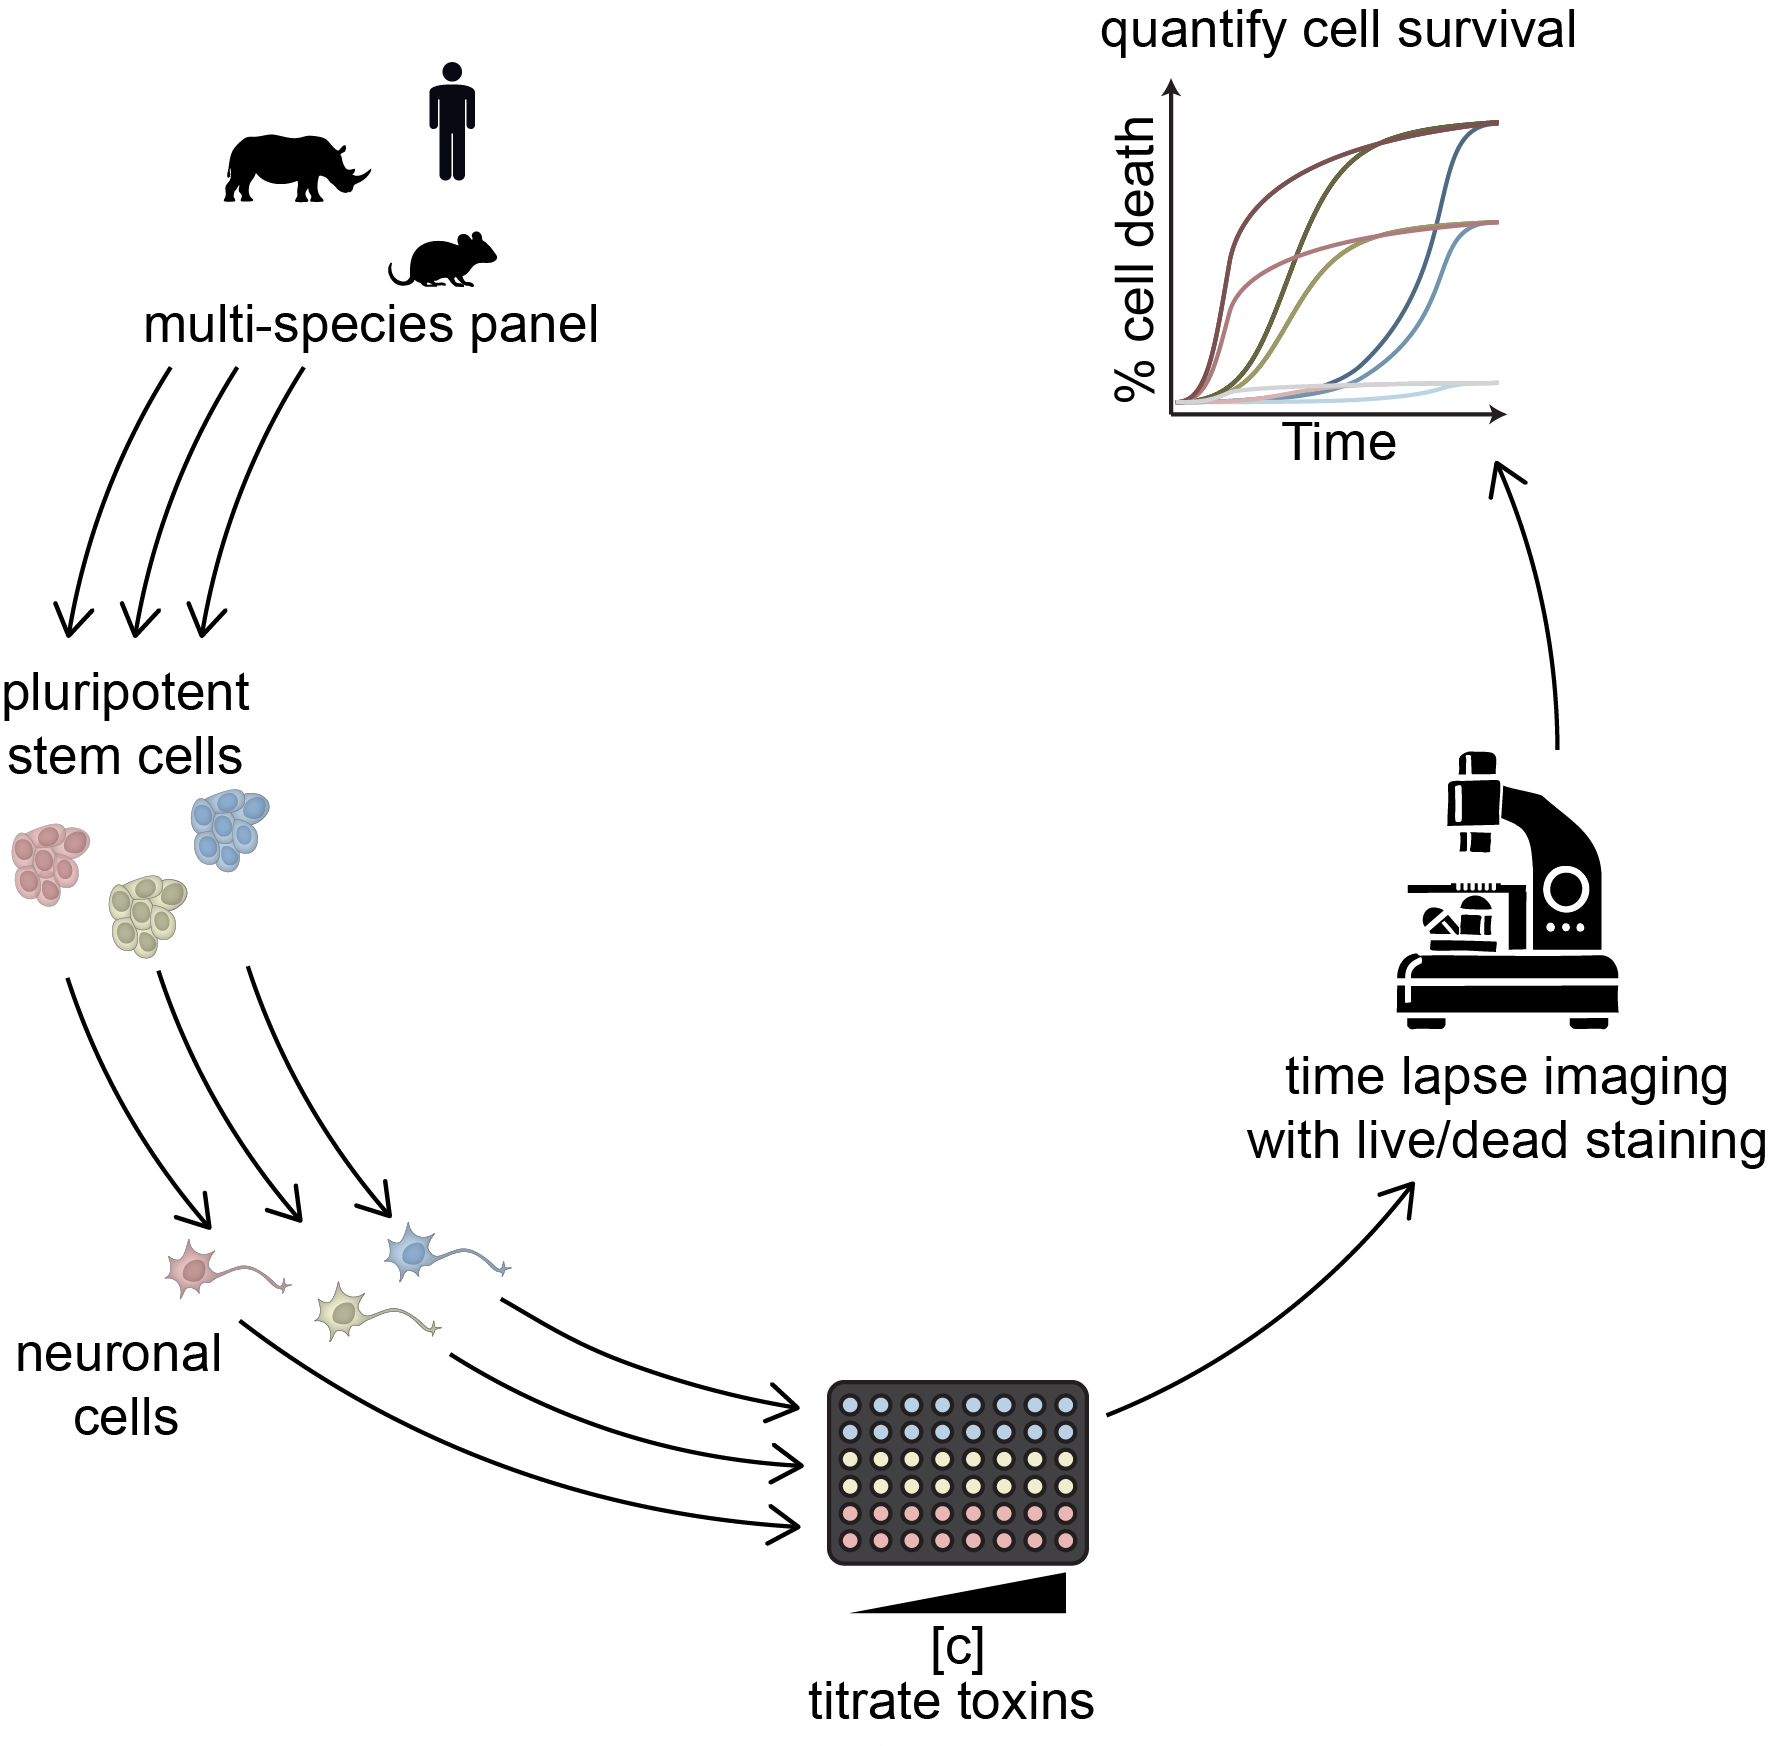
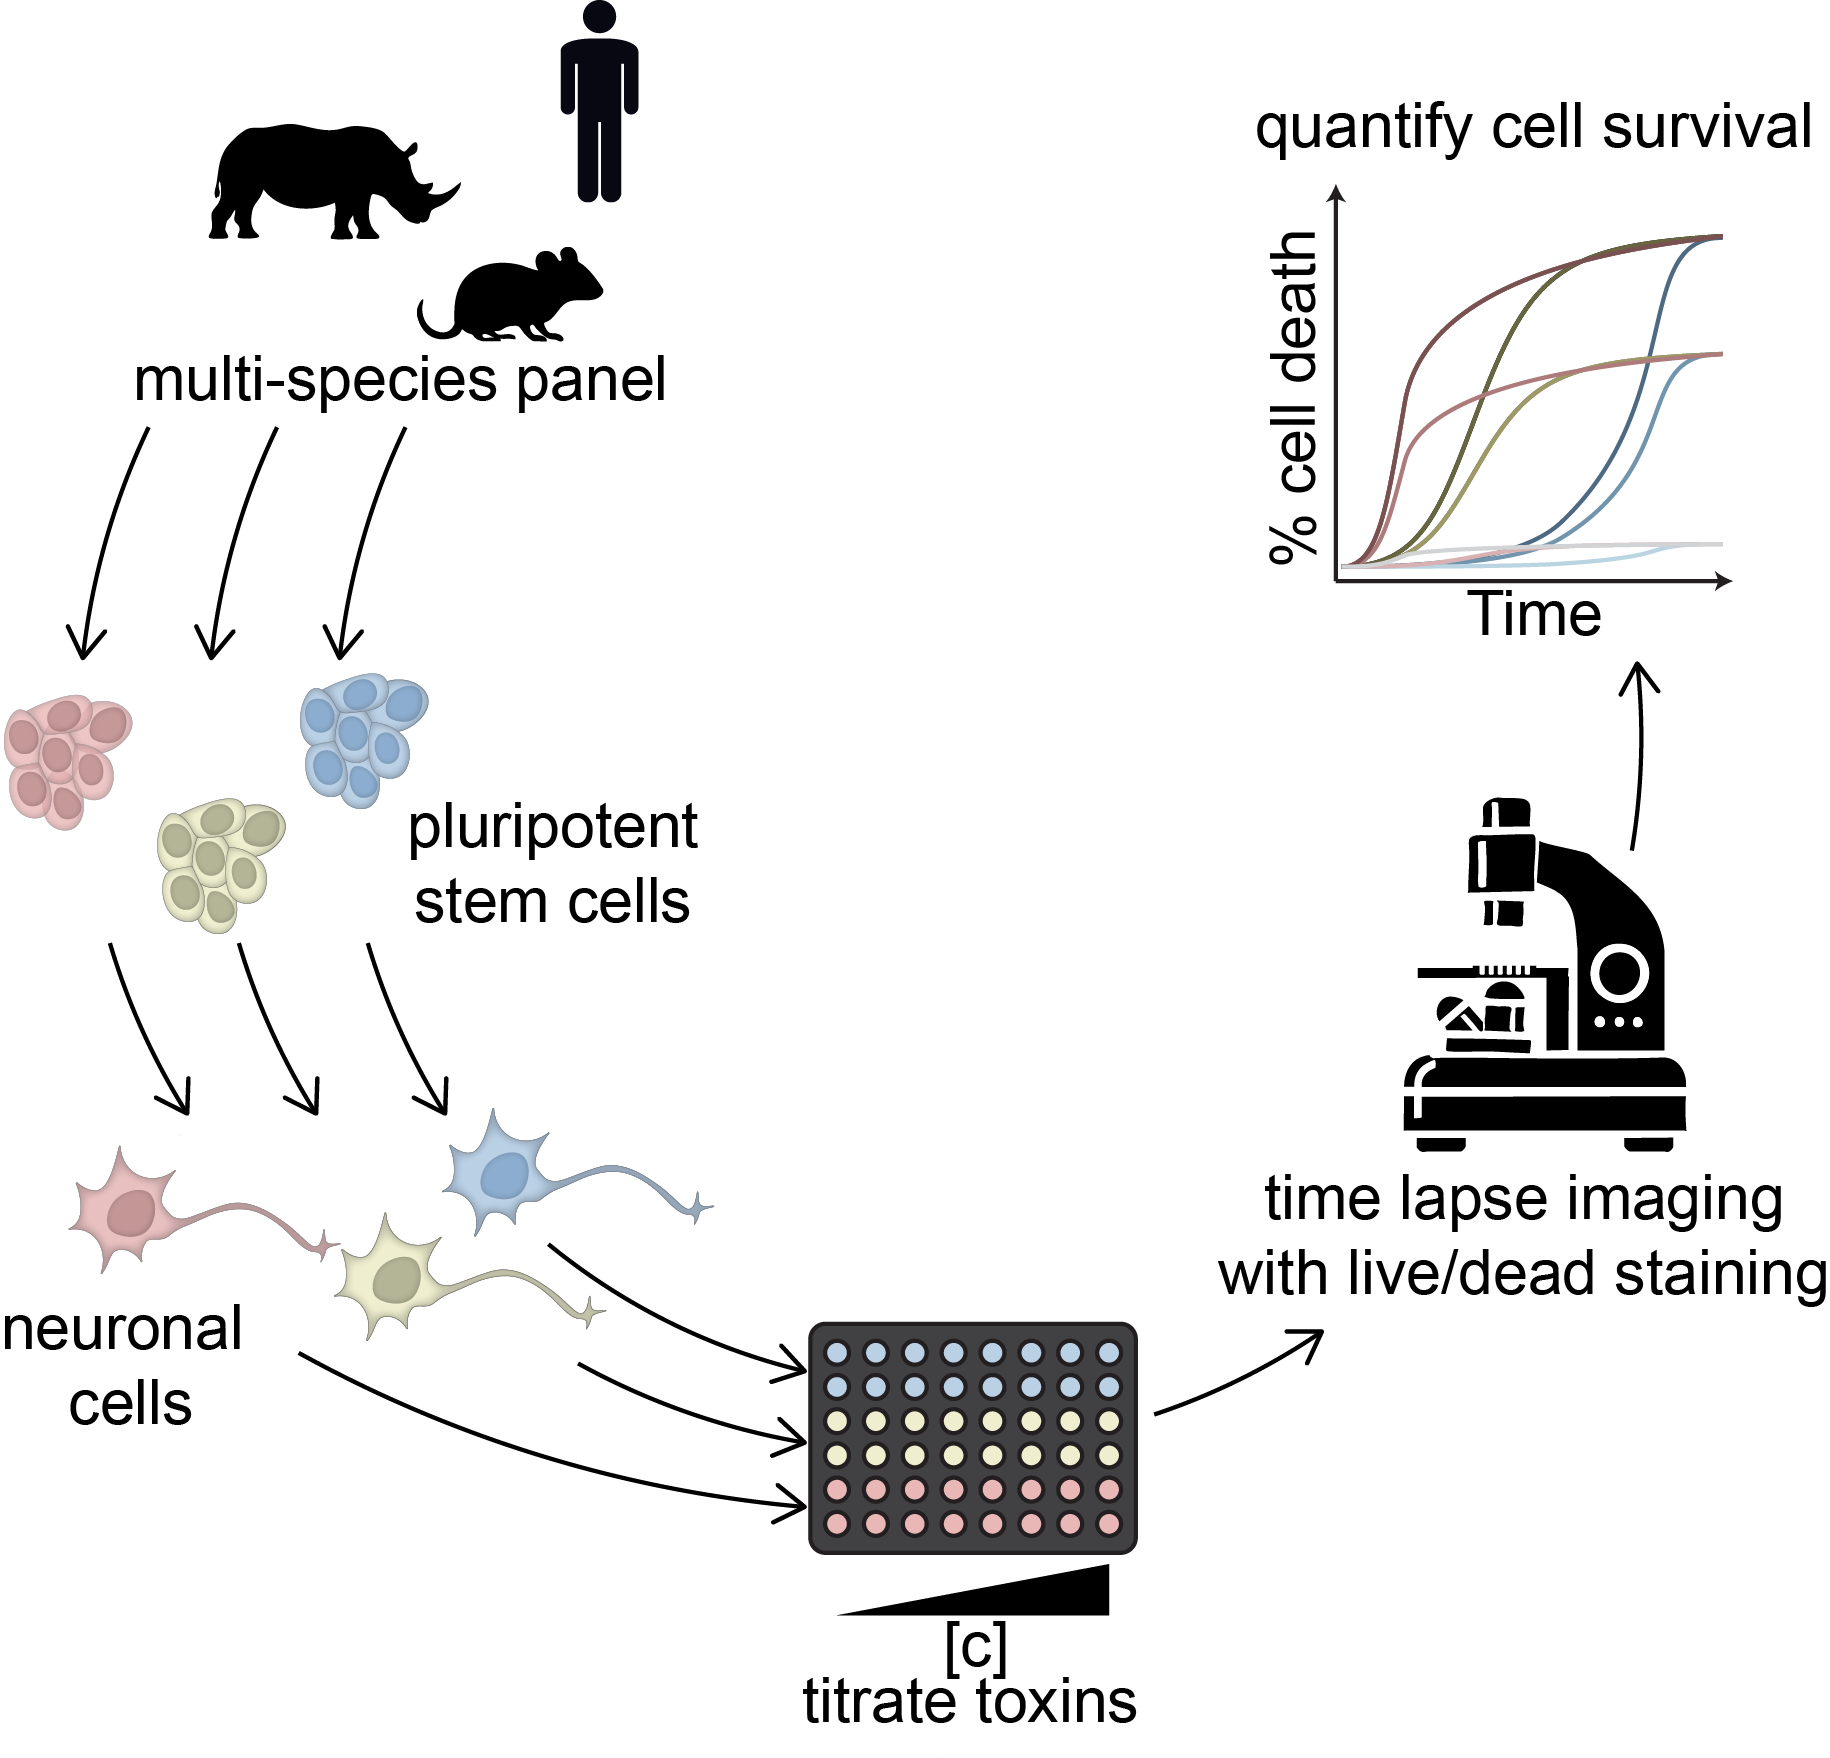
added info for Yubin

diff --git a/grant.html b/grant.html
@@ -3,7 +3,7 @@
 <head>
     <meta charset="UTF-8">
     <meta name="viewport" content="width=device-width, initial-scale=1.0">
-    <title>Grant Information</title>
+    <title>John Templeton Foundation Project Details</title>
     <link rel="stylesheet" href="styles.css">
 </head>
 <body>
@@ -105,10 +105,12 @@
             </div>
 
             <div class="project">
-                <img src="images/project.jpg" style="max-width: 300px" alt="Project 1 Image">
+                <img src="images/paraspeckles.png" style="max-width: 300px" alt="Project 1 Image">
                 <div class="project-details">
                     <h2>Project 2: Paraspeckles</h2>
-                    <p>This project focuses on understanding the role of paraspeckles in cellular aging and their impact on longevity.</p>
+                    <p>Mammalian species not only exhibit distinct embryonic development timelines but also display remarkable variations in lifespan. We seek to determine whether these differences in lifespan manifest at the cellular level. Cellular stress is considered a key trigger in cellular aging, and we hypothesize that species with longer lifespans may exhibit greater cellular stress resistance.</p>
+                    <p>Paraspeckles are membraneless organelles found exclusively in mammals, which are primarily composed of the long non-coding RNA NEAT1 and various RNA-binding proteins (RNPs). Studies have shown that paraspeckles are closely associated with cellular stress responses. We propose that the stress resistance capacity of paraspeckles may vary across species and that this variation could influence species lifespan.</p>
+                    <p>To compare the stress resistance capacity of paraspeckles across different species, we plan to use CRISPR to knock out the Neat1 gene in mouse embryonic stem cells. Additionally, we will employ recombineering technology to construct a donor plasmid carrying the human NEAT1 gene and use the Flp-in system to replace the endogenous Neat1 gene with its human counterpart. Subsequently, we will induce differentiation of these cells into neural cells and apply various stress stimuli to mimic the cellular aging process. Finally, by analyzing paraspeckle number, cell survival rate, and metabolic activity, I aim to compare the stress resistance capacity of paraspeckles across different species.</p>
                 </div>
             </div>
         
@@ -164,10 +166,10 @@
                     <p>Role in the Project</p>
                 </div>
                 <div class="team-member">
-                    <img src="images/person.png" alt="Dr. Name 3">
+                    <img src="images/Yubin.jpg" alt="Dr. Name 3">
                     <h2>Yubin Guo</h2>
                     <h3>PhD Candidate</h3>
-                    <p>Role in the Project</p>
+                    <p>Yubin Guo joined the group as a PhD candidate in October 2023. He is interested in exploring the role of paraspeckles in stress responses and their connection to diseases, including neurodegenerative disorders and cancer.</p>
                 </div>
                 <div class="team-member">
                     <img src="images/person.png" alt="Dr. Name 4">
@@ -198,8 +200,8 @@
             <ul>
                 <li><a href="https://www.biorxiv.org/content/10.1101/2024.10.22.619594v1">Phylogenetic Study of Long Non-Coding RNA NEAT1 and MALAT1 to Infer Structural-Functional Connection</a></li>
                 <li><a href="https://www.biorxiv.org/content/10.1101/2024.09.03.610938v3">Single-cell multiome uncovers differences in glycogen metabolism underlying species-specific speed of development</a></li>
-                <li><a href = ""> Paraspeckle paper </a></li>
-                <li><a href = ""> Rhino paper </a></li>
+                <li><a href = "https://www.cell.com/molecular-cell/fulltext/S1097-2765(19)30270-9?_returnURL=https%3A%2F%2Flinkinghub.elsevier.com%2Fretrieve%2Fpii%2FS1097276519302709%3Fshowall%3Dtrue"> Cross-Regulation between TDP-43 and Paraspeckles Promotes Pluripotency-Differentiation Transition </a></li>
+                <li><a href = "https://www.nature.com/articles/s41598-022-07059-w">Naïve-like pluripotency to pave the way for saving the northern white rhinoceros from extinction</a></li>
                 <li><a href="https://www.biorxiv.org/content/10.1101/2024.03.26.586760v1">Capture of Human Neuromesodermal and Posterior Neural Tube Axial Stem Cells</a></li>
             
             </ul>

diff --git a/team.html b/team.html
@@ -3,7 +3,7 @@
 <head>
     <meta charset="UTF-8">
     <meta name="viewport" content="width=device-width, initial-scale=1.0">
-    <title>Grant Information</title>
+    <title>Under Construction</title>
     <link rel="stylesheet" href="styles.css">
 </head>
 <body>

diff --git a/index.html b/index.html
@@ -3,7 +3,7 @@
 <head>
     <meta charset="UTF-8">
     <meta name="viewport" content="width=device-width, initial-scale=1.0">
-    <title>Research Group</title>
+    <title>Drukker Lab</title>
     <link rel="stylesheet" href="styles.css">
 </head>
 <body>
